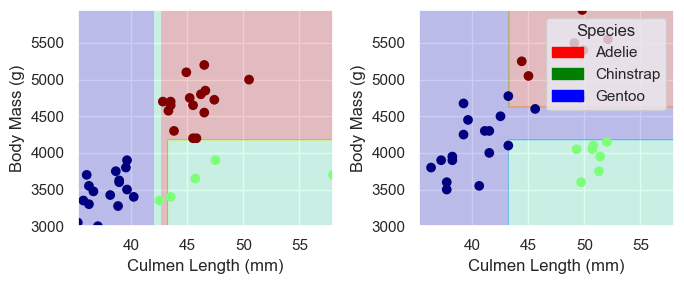
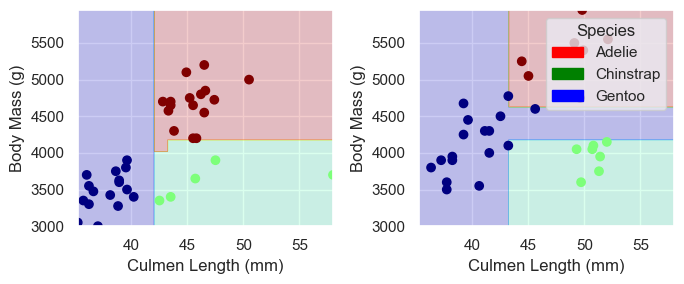
'

Changed region(s): [[0.2149, 0.0282, 0.2456, 0.7887]]

diff --git a/docs/posts/Penguins/penguins.html b/docs/posts/Penguins/penguins.html
@@ -881,7 +881,7 @@ Name: Region, dtype: int64</code></pre>
 </div>
 </div>
 <p>I will be using these features of the decision tree classifier: ‘Sex_FEMALE’, ‘Sex_MALE’, ‘Culmen Length (mm)’, ‘Body Mass (g)’ because they give us in 1.0 accuracy. Below is the proof that the score of the decision tree classifier using these features results in 1.0.</p>
-<div class="cell" data-execution_count="23">
+<div class="cell" data-execution_count="12">
 <div class="sourceCode cell-code" id="cb16"><pre class="sourceCode python code-with-copy"><code class="sourceCode python"><span id="cb16-1"><a href="#cb16-1" aria-hidden="true" tabindex="-1"></a><span class="co"># Accuracy using Decision Tree Classifier on features 'cols'</span></span>
 <span id="cb16-2"><a href="#cb16-2" aria-hidden="true" tabindex="-1"></a>cols <span class="op">=</span> [<span class="st">'Culmen Length (mm)'</span>, <span class="st">'Body Mass (g)'</span>, <span class="st">'Sex_FEMALE'</span>, <span class="st">'Sex_MALE'</span>]</span>
 <span id="cb16-3"><a href="#cb16-3" aria-hidden="true" tabindex="-1"></a>DTC.fit(X_train[cols], y_train)</span>
@@ -894,7 +894,7 @@ Name: Region, dtype: int64</code></pre>
 </section>
 <section id="evaluate-and-testing" class="level3">
 <h3 class="anchored" data-anchor-id="evaluate-and-testing">Evaluate and Testing</h3>
-<div class="cell" data-execution_count="25">
+<div class="cell" data-execution_count="13">
 <div class="sourceCode cell-code" id="cb18"><pre class="sourceCode python code-with-copy"><code class="sourceCode python"><span id="cb18-1"><a href="#cb18-1" aria-hidden="true" tabindex="-1"></a>test_url <span class="op">=</span> <span class="st">"https://raw.githubusercontent.com/middlebury-csci-0451/CSCI-0451/main/data/palmer-penguins/test.csv"</span></span>
 <span id="cb18-2"><a href="#cb18-2" aria-hidden="true" tabindex="-1"></a>test <span class="op">=</span> pd.read_csv(test_url)</span>
 <span id="cb18-3"><a href="#cb18-3" aria-hidden="true" tabindex="-1"></a></span>
@@ -904,10 +904,10 @@ Name: Region, dtype: int64</code></pre>
 <span id="cb18-7"><a href="#cb18-7" aria-hidden="true" tabindex="-1"></a>DTC_score <span class="op">=</span> DTC.score(X_test[cols], y_test)</span>
 <span id="cb18-8"><a href="#cb18-8" aria-hidden="true" tabindex="-1"></a><span class="bu">print</span>(<span class="st">"Score on test data using Decision Tree Classifier: "</span> <span class="op">+</span> <span class="bu">str</span>(DTC_score))</span></code><button title="Copy to Clipboard" class="code-copy-button"><i class="bi"></i></button></pre></div>
 <div class="cell-output cell-output-stdout">
-<pre><code>Score on test data using Decision Tree Classifier: 0.9117647058823529</code></pre>
+<pre><code>Score on test data using Decision Tree Classifier: 0.8970588235294118</code></pre>
 </div>
 </div>
-<div class="cell" data-execution_count="19">
+<div class="cell" data-execution_count="14">
 <div class="sourceCode cell-code" id="cb20"><pre class="sourceCode python code-with-copy"><code class="sourceCode python"><span id="cb20-1"><a href="#cb20-1" aria-hidden="true" tabindex="-1"></a><span class="co"># Helper function for plotting (from blog post guide)</span></span>
 <span id="cb20-2"><a href="#cb20-2" aria-hidden="true" tabindex="-1"></a><span class="kw">def</span> plot_regions(model, X, y):</span>
 <span id="cb20-3"><a href="#cb20-3" aria-hidden="true" tabindex="-1"></a>    </span>
@@ -958,14 +958,11 @@ Name: Region, dtype: int64</code></pre>
 <span id="cb20-48"><a href="#cb20-48" aria-hidden="true" tabindex="-1"></a>      </span>
 <span id="cb20-49"><a href="#cb20-49" aria-hidden="true" tabindex="-1"></a>      plt.tight_layout()</span></code><button title="Copy to Clipboard" class="code-copy-button"><i class="bi"></i></button></pre></div>
 </div>
-<div class="cell" data-execution_count="22">
+<div class="cell" data-execution_count="15">
 <div class="sourceCode cell-code" id="cb21"><pre class="sourceCode python code-with-copy"><code class="sourceCode python"><span id="cb21-1"><a href="#cb21-1" aria-hidden="true" tabindex="-1"></a><span class="co"># Plot Culmen Length vs. Body Mass</span></span>
-<span id="cb21-2"><a href="#cb21-2" aria-hidden="true" tabindex="-1"></a></span>
-<span id="cb21-3"><a href="#cb21-3" aria-hidden="true" tabindex="-1"></a>cols <span class="op">=</span> [<span class="st">'Culmen Length (mm)'</span>, <span class="st">'Body Mass (g)'</span>, <span class="st">'Sex_FEMALE'</span>, <span class="st">'Sex_MALE'</span>]</span>
-<span id="cb21-4"><a href="#cb21-4" aria-hidden="true" tabindex="-1"></a>DTC <span class="op">=</span> DecisionTreeClassifier()</span>
-<span id="cb21-5"><a href="#cb21-5" aria-hidden="true" tabindex="-1"></a>DTC.fit(X_test[cols], y_test)</span>
-<span id="cb21-6"><a href="#cb21-6" aria-hidden="true" tabindex="-1"></a></span>
-<span id="cb21-7"><a href="#cb21-7" aria-hidden="true" tabindex="-1"></a>plot_regions(DTC, X_test[cols], y_test)</span></code><button title="Copy to Clipboard" class="code-copy-button"><i class="bi"></i></button></pre></div>
+<span id="cb21-2"><a href="#cb21-2" aria-hidden="true" tabindex="-1"></a>DTC.fit(X_test[cols], y_test)</span>
+<span id="cb21-3"><a href="#cb21-3" aria-hidden="true" tabindex="-1"></a></span>
+<span id="cb21-4"><a href="#cb21-4" aria-hidden="true" tabindex="-1"></a>plot_regions(DTC, X_test[cols], y_test)</span></code><button title="Copy to Clipboard" class="code-copy-button"><i class="bi"></i></button></pre></div>
 <div class="cell-output cell-output-display">
 <p><img src="penguins_files/figure-html/cell-16-output-1.png" class="img-fluid"></p>
 </div>

diff --git a/docs/index.html b/docs/index.html
@@ -183,7 +183,7 @@ background-size: cover;
 
 <div class="quarto-listing quarto-listing-container-default" id="listing-listing">
 <div class="list quarto-listing-default">
-<div class="quarto-post image-right" data-index="0" data-listing-date-sort="1684641600000" data-listing-file-modified-sort="1684738401631" data-listing-date-modified-sort="NaN" data-listing-reading-time-sort="2">
+<div class="quarto-post image-right" data-index="0" data-listing-date-sort="1684641600000" data-listing-file-modified-sort="1684738710506" data-listing-date-modified-sort="NaN" data-listing-reading-time-sort="2">
 <div class="thumbnail">
 <p><a href="./posts/Penguins/penguins.html"> <img src="./posts/Penguins/adeliePenguin.jpeg" class="thumbnail-image"> </a></p>
 </div>
